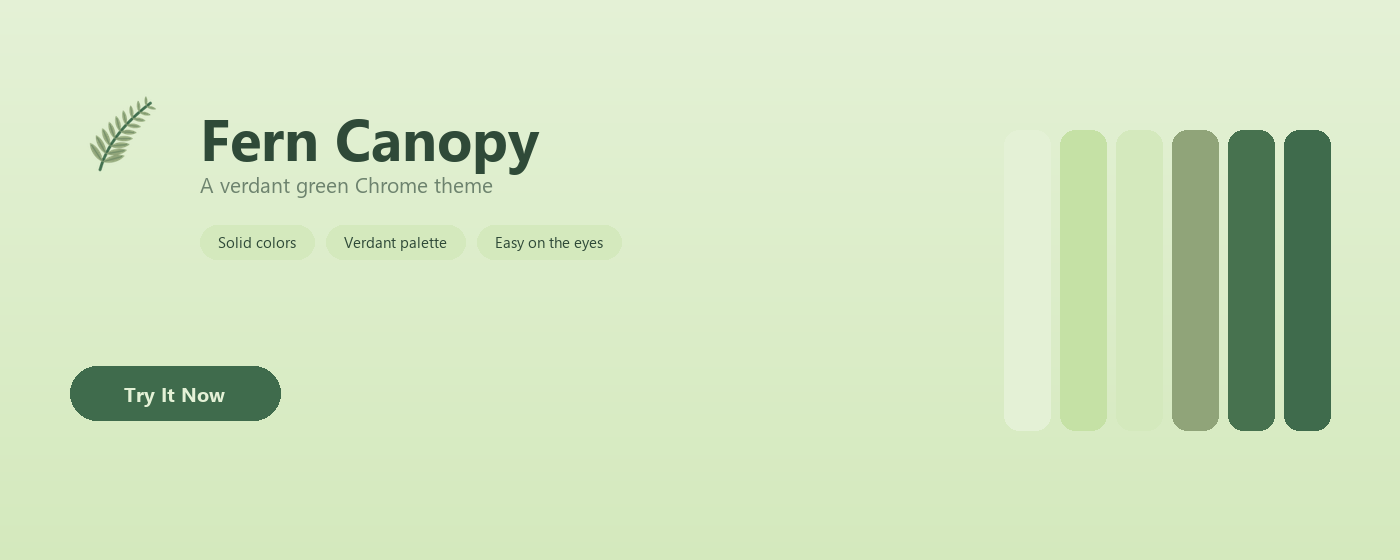
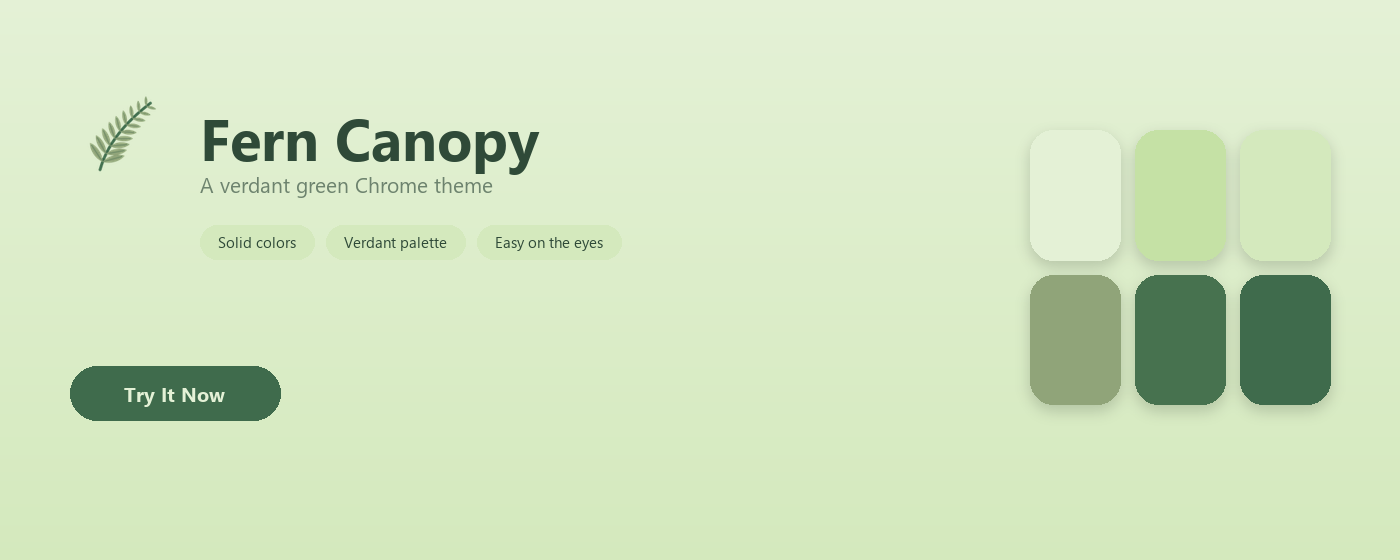
promo 色卡改为 3x2 圆角色块网格（带柔和投影）
- 大 promo 与小 promo 右侧由竖向色条改为 3x2 圆角色块 + 柔和投影
- 色块几何由 block_w / tile_ratio 参数化，带右边界与底边安全线断言
- 重新打包 zip 覆盖

Changed region(s): [[0.7064, 0.2125, 0.9521, 0.7893]]

diff --git a/scripts/generate-promo.py b/scripts/generate-promo.py
@@ -11,7 +11,7 @@ import os
 import time
 from pathlib import Path
 
-from PIL import Image, ImageDraw, ImageFont
+from PIL import Image, ImageDraw, ImageFilter, ImageFont
 
 ROOT = Path(__file__).resolve().parent.parent
 os.chdir(str(ROOT))                      # relative paths only (non-ASCII path safety)
@@ -86,17 +86,37 @@ def compose(size, geom, colors, props):
     cta_bg = rgb(colors["frame"])
     cta_txt = rgb(colors["tab_text"])
 
-    bar_colors = [rgb(colors["ntp_background"]), rgb(colors["button_background_secondary"]),
-                  rgb(colors["button_background"]), rgb(props["ntp_button_background"]),
-                  rgb(colors["toolbar"]), rgb(colors["frame"])]
-    bw, bgap = geom["bar_w"], geom["bar_gap"]
-    bars_w = bw * len(bar_colors) + bgap * (len(bar_colors) - 1)
-    bx, by = RIGHT - bars_w, geom["bar_y"]
-    for i, col in enumerate(bar_colors):
-        x0 = bx + i * (bw + bgap)
-        # no outline: the bars read as flat paint chips (user request 2026-10-16)
-        d.rounded_rectangle([x0, by, x0 + bw, by + geom["bar_h"]], radius=bw // 3, fill=col)
-    assert bx + bars_w <= RIGHT, "palette bars overflow the right margin"
+    # palette tiles: a 3x2 grid of rounded swatches with a soft shadow
+    # (replaces the old vertical paint bars — user request 2026-10-20)
+    tile_colors = [rgb(colors["ntp_background"]), rgb(colors["button_background_secondary"]),
+                   rgb(colors["button_background"]), rgb(props["ntp_button_background"]),
+                   rgb(colors["toolbar"]), rgb(colors["frame"])]
+    cols = 3
+    block_w = geom["block_w"]
+    tgap = block_w * 0.05
+    tw = (block_w - tgap * (cols - 1)) / cols
+    th = tw * geom["tile_ratio"]
+    block_h = th * 2 + tgap
+    bx, by = int(round(RIGHT - block_w)), geom["bar_y"]
+    assert bx + block_w <= RIGHT, "palette tiles overflow the right margin"
+    assert by + block_h <= H - 12, "palette tiles too close to the canvas bottom"
+
+    shadow = Image.new("RGBA", (W, H), (0, 0, 0, 0))
+    sd = ImageDraw.Draw(shadow)
+    for i in range(len(tile_colors)):
+        r, c = divmod(i, cols)
+        x0 = bx + c * (tw + tgap)
+        y0 = by + r * (th + tgap)
+        sd.rounded_rectangle([x0, y0 + 6, x0 + tw, y0 + th + 6],
+                             radius=tw * 0.26, fill=(22, 38, 26, 48))
+    shadow = shadow.filter(ImageFilter.GaussianBlur(7))
+    img = Image.alpha_composite(img.convert("RGBA"), shadow).convert("RGB")
+    d = ImageDraw.Draw(img)
+    for i, col in enumerate(tile_colors):
+        r, c = divmod(i, cols)
+        x0 = bx + c * (tw + tgap)
+        y0 = by + r * (th + tgap)
+        d.rounded_rectangle([x0, y0, x0 + tw, y0 + th], radius=tw * 0.26, fill=col)
 
     lsize = geom["logo"]
     logo = Image.open("logo/logo.png").convert("RGBA").resize((lsize, lsize), Image.LANCZOS)
@@ -128,7 +148,7 @@ def compose(size, geom, colors, props):
     assert btn_y + btn_h <= H - 12, "CTA button too close to the canvas bottom"
     assert btn_x + btn_w <= RIGHT, "CTA button overflows the right margin"
     assert btn_x + btn_w <= bx - 20, "CTA button collides with the palette bars"
-    return img, {"btn": (btn_x, btn_y, btn_w, btn_h), "bars": (bx, by, bars_w, geom["bar_h"])}
+    return img, {"btn": (btn_x, btn_y, btn_w, btn_h), "tiles": (bx, by, block_w, round(block_h))}
 
 
 LARGE = {
@@ -140,7 +160,7 @@ LARGE = {
     "chip_size": 15, "chip_h": 34, "chip_gap": 34, "chip_gap_x": 12,
     "cta": "Try It Now", "cta_size": 20, "cta_w": 210, "cta_h": 54,
     "cta_y": 366, "cta_beside": True,
-    "bar_w": 46, "bar_gap": 10, "bar_h": 300, "bar_y": 130,
+    "block_w": 300, "tile_ratio": 1.44, "bar_y": 130,
 }
 
 SMALL = {
@@ -152,7 +172,7 @@ SMALL = {
     "chip_size": 10, "chip_h": 22, "chip_gap": 12, "chip_gap_x": 8,
     "cta": "Try It Now", "cta_size": 13, "cta_w": 118, "cta_h": 36,
     "cta_y": 0, "cta_gap": 16, "cta_beside": False,
-    "bar_w": 16, "bar_gap": 4, "bar_h": 120, "bar_y": 68,
+    "block_w": 132, "tile_ratio": 1.44, "bar_y": 68,
 }
 
 
@@ -166,7 +186,7 @@ def main():
         img, boxes = compose(size, geom, c, p)
         out = "%s/%dx%d.png" % (OUT_DIR, size[0], size[1])
         save_png(img, out)
-        print("saved:", out, img.size, img.mode, "cta:", boxes["btn"], "bars:", boxes["bars"])
+        print("saved:", out, img.size, img.mode, "cta:", boxes["btn"], "tiles:", boxes["tiles"])
 
 
 if __name__ == "__main__":
